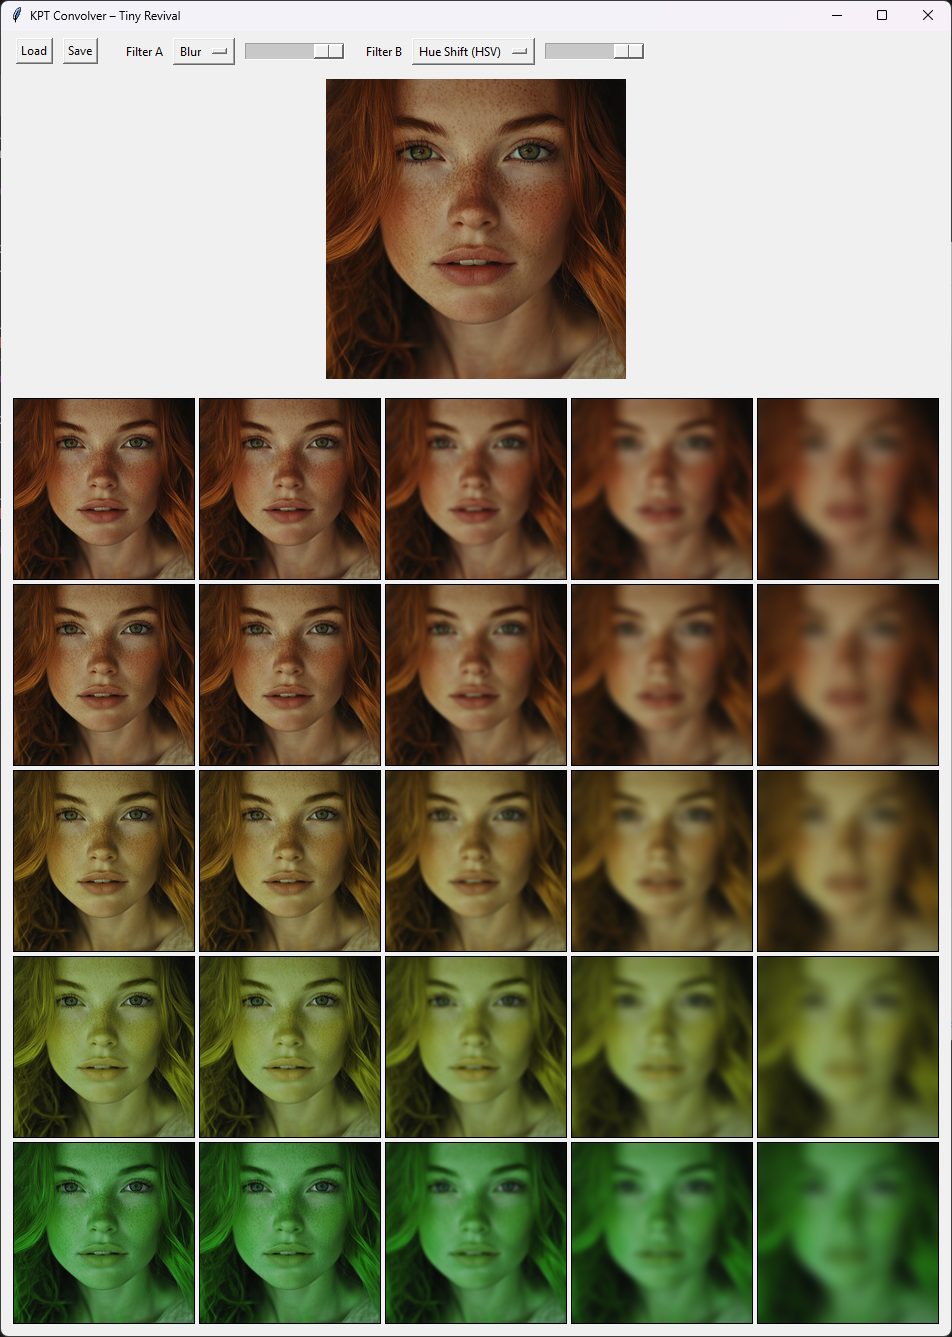
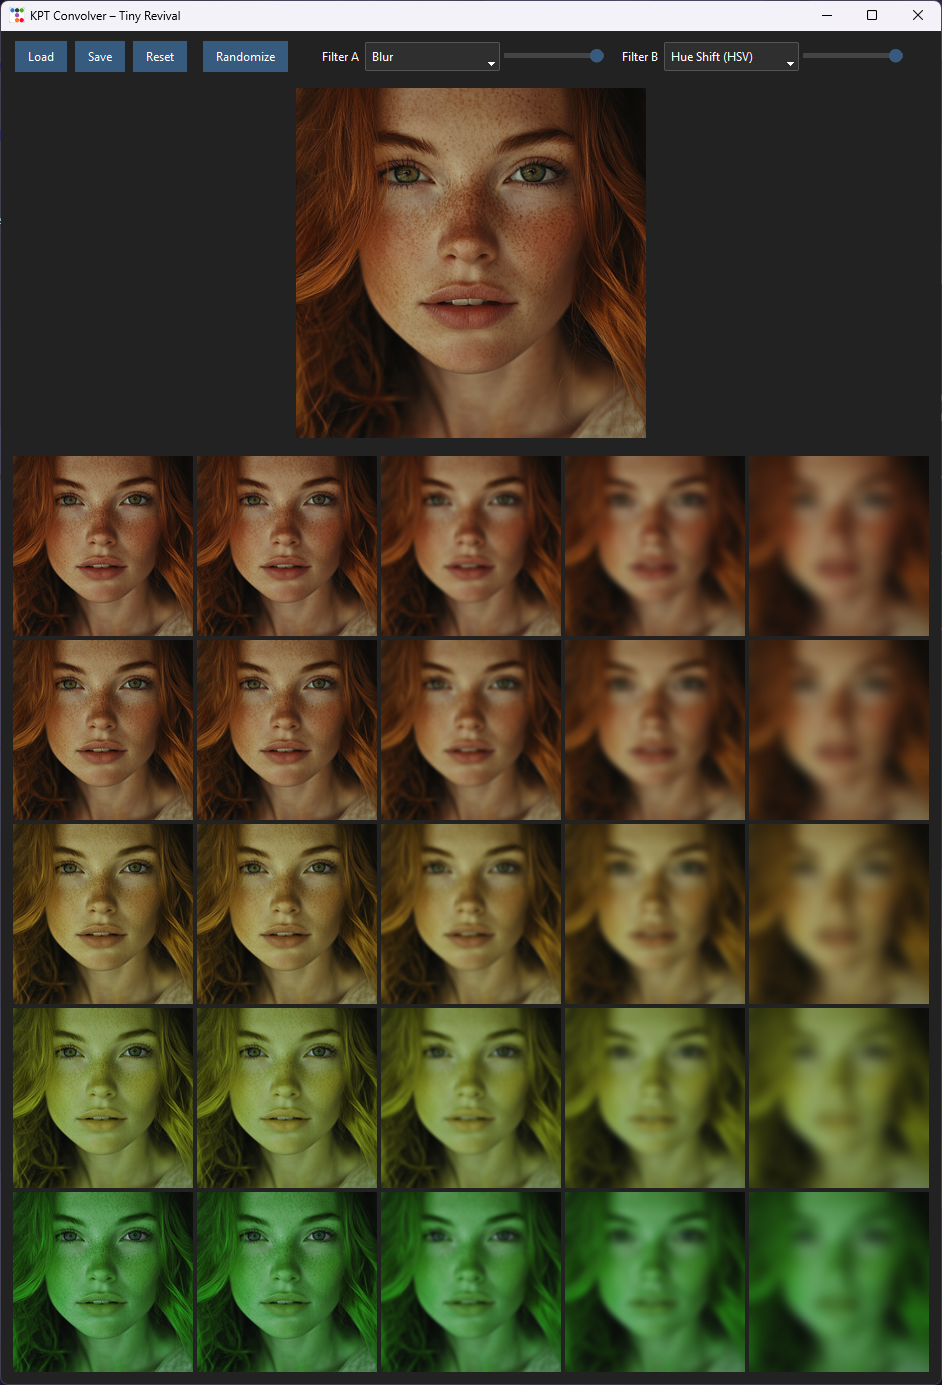
Imporved UX

diff --git a/app.py b/app.py
@@ -6,6 +6,7 @@ from ttkbootstrap.constants import *
 from PIL import Image, ImageTk
 import os
 import random
+import threading
 
 import config
 import filters
@@ -94,6 +95,8 @@ class KPTExplorer:
         self.root = root
         self.root.title("KPT Convolver – Tiny Revival")
 
+        self.is_rendering = False
+
         # ---- IMAGE STATE ----
         self.current_img = seed_img.convert("RGB")
         self.original_img = self.current_img.copy()
@@ -116,39 +119,49 @@ class KPTExplorer:
         top = ttk.Frame(root, padding=10)
         top.pack(fill="x")
 
-        ttk.Button(top, text="Load", command=self.load_image).pack(side="left", padx=4)
-        ttk.Button(top, text="Save", command=self.save_image).pack(side="left", padx=4)
-        ttk.Button(top, text="Reset", command=self.reset_image).pack(side="left", padx=4)
-        ttk.Button(top, text="Randomize", command=self.randomize).pack(side="left", padx=12)
+        self.controls = []
+
+        def ctl(widget):
+            self.controls.append(widget)
+            return widget
+
+        ctl(ttk.Button(top, text="Load", command=self.load_image)).pack(side="left", padx=4)
+        ctl(ttk.Button(top, text="Save", command=self.save_image)).pack(side="left", padx=4)
+        ctl(ttk.Button(top, text="Reset", command=self.reset_image)).pack(side="left", padx=4)
+        ctl(ttk.Button(top, text="Randomize", command=self.randomize)).pack(side="left", padx=12)
 
         ttk.Label(top, text="Filter A").pack(side="left", padx=(20, 4))
-        self.filter_a_combo = ttk.Combobox(
-            top,
-            textvariable=self.filter_a_var,
-            values=filter_names,
-            state="readonly",
-            width=18
+        self.filter_a_combo = ctl(
+            ttk.Combobox(
+                top,
+                textvariable=self.filter_a_var,
+                values=filter_names,
+                state="readonly",
+                width=18
+            )
         )
         self.filter_a_combo.pack(side="left")
         self.filter_a_combo.bind("<<ComboboxSelected>>", lambda e: self.render_grid())
 
-        self.a_slider = ttk.Scale(top, from_=1, to=5, length=100)
+        self.a_slider = ctl(ttk.Scale(top, from_=1, to=5, length=100))
         self.a_slider.set(5)
         self.a_slider.pack(side="left", padx=4)
         self.a_slider.bind("<ButtonRelease-1>", self.on_strength_release)
 
         ttk.Label(top, text="Filter B").pack(side="left", padx=(12, 4))
-        self.filter_b_combo = ttk.Combobox(
-            top,
-            textvariable=self.filter_b_var,
-            values=filter_names,
-            state="readonly",
-            width=18
+        self.filter_b_combo = ctl(
+            ttk.Combobox(
+                top,
+                textvariable=self.filter_b_var,
+                values=filter_names,
+                state="readonly",
+                width=18
+            )
         )
         self.filter_b_combo.pack(side="left")
         self.filter_b_combo.bind("<<ComboboxSelected>>", lambda e: self.render_grid())
 
-        self.b_slider = ttk.Scale(top, from_=1, to=5, length=100)
+        self.b_slider = ctl(ttk.Scale(top, from_=1, to=5, length=100))
         self.b_slider.set(5)
         self.b_slider.pack(side="left", padx=4)
         self.b_slider.bind("<ButtonRelease-1>", self.on_strength_release)
@@ -157,7 +170,11 @@ class KPTExplorer:
         # PREVIEW
         # =========================
 
-        self.preview_label = ttk.Label(root)
+        self.preview_label = tk.Label(
+            root,
+            bd=0,
+            relief="solid"
+        )
         self.preview_label.pack(pady=6)
 
         # =========================
@@ -167,14 +184,50 @@ class KPTExplorer:
         self.grid_frame = ttk.Frame(root, padding=10)
         self.grid_frame.pack()
 
+        # =========================
+        # PROGRESSBAR OVERLAY
+        # =========================
+
+        self.loader = ttk.Progressbar(
+            root,
+            mode="determinate",
+            bootstyle="info striped",
+            length=320
+        )
+
         self.update_preview()
         self.render_grid()
+
+    # =========================
+    # SPINNER + STATE
+    # =========================
+
+    def show_spinner(self):
+        self.is_rendering = True
+        for c in self.controls:
+            c.configure(state="disabled")
+
+        self.loader.place(relx=0.5, rely=0.5, anchor="center")
+        self.loader.start(10)
+
+    def hide_spinner(self):
+        self.loader.stop()
+        self.loader.place_forget()
+
+        for c in self.controls:
+            c.configure(state="normal")
+
+        self.is_rendering = False
+
 
     # =========================
     # UI ACTIONS
     # =========================
 
     def load_image(self):
+        if self.is_rendering:
+            return
+
         path = filedialog.askopenfilename(
             filetypes=[("Images", "*.png *.jpg *.jpeg *.bmp")]
         )
@@ -199,6 +252,8 @@ class KPTExplorer:
         self.current_img.save(path)
 
     def reset_image(self):
+        if self.is_rendering:
+            return
         self.current_img = self.original_img.copy()
         self.update_preview()
         self.render_grid()
@@ -211,13 +266,21 @@ class KPTExplorer:
         self.preview_label.image = tk_img
 
     # =========================
-    # GRID
+    # GRID (THREADED)
     # =========================
 
     def render_grid(self):
-        for w in self.grid_frame.winfo_children():
-            w.destroy()
+        if self.is_rendering:
+            return
 
+        self.show_spinner()
+
+        threading.Thread(
+            target=self._render_grid_worker,
+            daemon=True
+        ).start()
+
+    def _render_grid_worker(self):
         grid = generate_grid(
             self.current_img,
             self.filter_a_var.get(),
@@ -225,6 +288,11 @@ class KPTExplorer:
             self.a_strength,
             self.b_strength
         )
+        self.root.after(0, lambda: self._populate_grid(grid))
+
+    def _populate_grid(self, grid):
+        for w in self.grid_frame.winfo_children():
+            w.destroy()
 
         for y, row in enumerate(grid):
             for x, img in enumerate(row):
@@ -237,7 +305,7 @@ class KPTExplorer:
                 lbl = tk.Label(
                     self.grid_frame,
                     image=tk_img,
-                    bd=1,
+                    bd=0,
                     relief="solid",
                     cursor="hand2"
                 )
@@ -246,7 +314,11 @@ class KPTExplorer:
 
                 lbl.bind("<Button-1>", lambda e, im=img: self.select(im))
 
+        self.hide_spinner()
+
     def select(self, img):
+        if self.is_rendering:
+            return
         self.current_img = img
         self.update_preview()
         self.render_grid()
@@ -256,6 +328,9 @@ class KPTExplorer:
     # =========================
 
     def on_strength_release(self, event=None):
+        if self.is_rendering:
+            return
+
         a_idx = int(round(self.a_slider.get()))
         b_idx = int(round(self.b_slider.get()))
 
@@ -265,6 +340,9 @@ class KPTExplorer:
         self.render_grid()
 
     def randomize(self):
+        if self.is_rendering:
+            return
+
         names = list(filters.FILTERS.keys())
 
         self.filter_a_var.set(random.choice(names))
@@ -282,7 +360,6 @@ class KPTExplorer:
 
 def main():
     root = ttk.Window(themename="darkly")
-
 
     if os.path.exists(config.DEFAULT_IMAGE_PATH):
         img = Image.open(config.DEFAULT_IMAGE_PATH)
